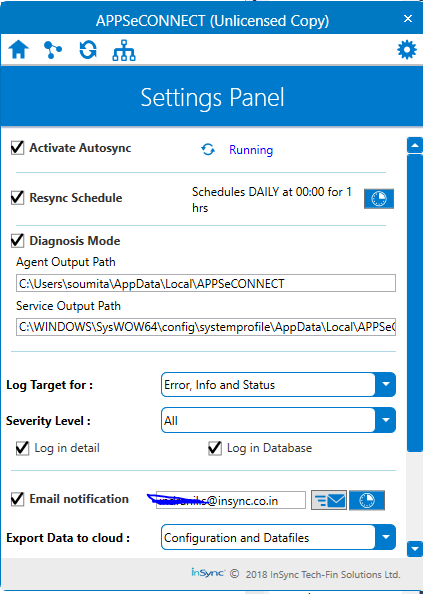
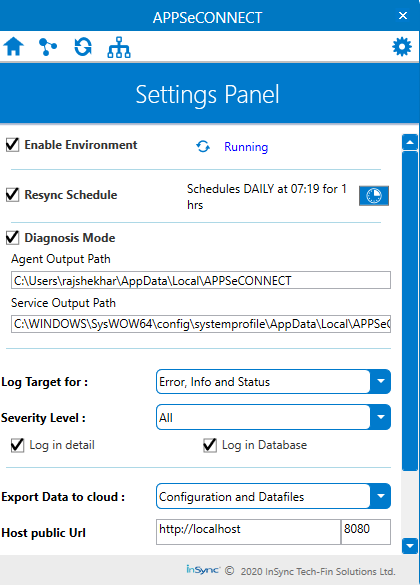
capture variable, workflow & deployment update

Changed region(s): [[0.0, 0.0, 1.0, 1.0], [0.0, 0.8923, 0.3095, 0.9231], [0.0, 0.8308, 0.3095, 0.8615]]

diff --git a/_posts/ProcessFlow Management/working-with-variable.md b/_posts/ProcessFlow Management/working-with-variable.md
@@ -27,7 +27,7 @@ Once defined, upon calling the variable, it will execute the expression associat
 ## Creating & Saving Variable
 
 Creating Variables in Processflow is easier and can be done directly by dragging the app node
-in the [designer section]().
+in the [designer section](/processflow/designer-processflow/).
 
 1. Select an application node and drag the node to the designer panel where you want to define the Capture Variable.
 
@@ -37,9 +37,9 @@ in the [designer section]().
 
 3. Enter the required details in the General Section (link will be given) of the node configuration window.
 
-4. Now Click on Properties Section and the following screen appears.
+4. Now Click on Properties Section and the screen for variable list appears. Click on the `CREATE` button.
 
-[Image]
+![var1](\staticfiles\processflow\media\var1.png)
 
 5. You need to provide the following details in the **Properties Tab**:
 
@@ -51,17 +51,17 @@ in the [designer section]().
     - **Process Flow:** This is the Global variable that can be used in any Process Flows with the organisation.
     - **Node:** This is the Local Variable and can be used only in the node where it is defined within that Process Flow.
 
-[Image]
+![var2](\staticfiles\processflow\media\var2.png)
 
 6. You will also be able to view the following toggle button in the `Create Variable` page.
 - **Is Persistant:** On Enabling this toggle button, the value after the execution will be remembered across subsequent executions.
-- **Mutable:**
-- **Is Env Specific:** You can limit the usage of the variable to Environment specific. On enabling the toggle button, you can select the variable for it to deploy while deploying the Process Flow. By default, the button would be toggled off.
 - **Is Encrypted:** Enabling this toggle will encrypt the output of variable in the database.
 
-7. Once all the necessary details are provided. Click on the SAVE button. 
+7. Once all the necessary details are provided. Click on the **SAVE** or **SAVE & CLOSE** button. 
 
-[Image]
+**Note: The field for Default Value remains disabled if the datatype is selected as  `ComplexObject` or `ComplexObjectCollection`.**
+
+![var3]()\staticfiles\processflow\media\var3.png
 
 8. On clicking the `View List` button, you can view all the created variable for the node in a list view.
 
@@ -73,7 +73,7 @@ Once you have defined and saved the Variable, you will be able to view the list 
 
 A. Click on the `VIEW LIST` button in the **Create Variable** window after defining and saving the variable.
 
-[Image]
+![var4](\staticfiles\processflow\media\var4.png)
 
 B. You will be able to view the list of variables in Properties Tab. You can view all the variables that has been created on that node.
 
@@ -97,7 +97,7 @@ A. Open the Application Node Configuration Window where you have defined the var
 
 B. Click on the properties Tab. You can view the Variable listing page.
 
-[Image]
+![var5](\staticfiles\processflow\media\var5.png)
 
 C. Click on the Ellipses icon (Three horizontal Dots) on the actions column beside the variable. You'll get two options from the drop down.
 - Edit: Enables you Edit the variable.
@@ -107,20 +107,56 @@ D. Click on the EDIT button. You can view the `Create Variable` page. Modify the
 
 **Note:** You can modify any properties associated with the variable.
 
-[Image]
-
 ## Deleting Variable
 
 A. Click on the Ellipses button beside the Variable, in the variable listing page.
 
-B. Click on the Delete button available on the drop down window. _(Will there be any confirmation message?)_
+B. Click on the Delete button available on the drop down window. 
 
-[Image]
+![var6](\staticfiles\processflow\media\var6.png)
+
+C. You'll be getting a confirmation message for the deletion process
+
+![var7](\staticfiles\processflow\media\var7.png)
 
 C. Your variable gets deleted from the list.
 
 _**Note:** You cannot delete a Variable that is currently in use for execution and will be provided with an error while doing so._
 
+## Execution Flow using Capture Variable
+
+1) [Design the Process Flow](/processflow/creating-processflow/) and Open the **Node Configuration Window** for the application implementing [GET operation](/processflow/working-with-GET/). The node configuration window opens.
+
+2) Enter the required fields in the **General Tab** of the Node Configuration Window of the application implementing GET operation. Click on the **Properties** Tab.
+
+![var8](\staticfiles\processflow\media\var8.png)
+
+3) Click on the **Create** Button in the Properties Window.
+
+4) The Variable creation page opens. Enter the required details and click on the save button.
+
+5) Navigate to the General tab and click on the **Configure Action Filter** button. Expand the Action filer node and click on the `created_at`. 
+
+6) Enter the Variable name in the `Value` field and click on the save button.
+
+![var11](\staticfiles\processflow\media\var11.png)
+
+7) You can now successfully [deploy and execute](/processflow/deploying-and-executing-processfloww/) the Process Flow.
+
+8) You can view the snapshot of the process flow.
+
+![var12]()
+
+9) Click on the `File Tab` of GET node to view all the files after the last of date.
+
+![var13]()
+
+**Note:**
+
+- Generic Function for `Lastof` has been used for fetching the all data after the LastOf value provided. After an instance the of execution, the generic function will store the `created_date` value of the last data such that on the next execution, all the data after the `LastOf date` will be fetched.
+- You need to provide `~ (tilt icon)` when providing Generic function in the `Expression` field.
+- Using of the `$` symbol to for denoting the variable usage is mandatory.
+- Variables with datatype `ComplexObect` & `ComplexObjectCollection` cannot be implemented on Action Filter.
 
 ## Capture Variables Utility:
 
@@ -128,8 +164,13 @@ This part of the document will list few scenarios that will help you understand 
 
 | Variable Name | Datatype | Expression | Default Value |Scope| Utility|
 |--------|-------------|-------------|---------|-------|-----|
-| custxp | string | `//items//item/` <br/> `cust_id` | - |  ProcessFlow or Node | Here, the variable is created with the name `$custxp` and is provided with an xpath expression. When ever the variable is called within the scope, the expression provided in the variable will be executed. |
-| countryval | string | - | ProcessFlow or Node |`"NY"` | Here, a variable is created `$countryval` that stores a static value of sting type. On implementing the variable within the scope, the variable will execute the static value when the variable is called during execution.|
-| Email | string | `//items//item/ ` <br/> `email_id` | abcd.com|ProcessFlow or Node|Here, the variable is created and is provided with both Expression and a default Value. On implementing the Variable, if the expression fails to execute its operation, the variable would replace it with the default value provided.|
-|TaxationCode| Double | - | 8.253 | ProcessFlow or Node | Here, the variable is of the datatype `Double` is provided with default value. On implementing, the variable will be executed the default double provided while defining.|
-|Frieght| Double | `//items//item` <br/> `//addresses/frieght` | 6.25 |Process flow or Node| Here, the variable frieght is declared with an expression and a default. On execution, if the expression provided doesnot executes, the default variable will be used.|
+| custxp | string | `{//items//item/` <br/> `cust_id}` | - |  ProcessFlow or Node | Here, the variable is created with the name `$custxp` and is provided with an xpath expression. When ever the variable is called within the scope, the expression provided in the variable will be executed. |
+| countryval | string | `{//items//item/` <br/> `country_id}` | ProcessFlow or Node |`"NY"` | Here, a variable is created `$countryval` that stores a static value of sting type. On the applying the variable on Action Filter of GET node, the variable will execute the expression provided and fetch only those data, that matched the value provided in the variable.|
+| Email | Bool | `{//items//item/ ` <br/> `email_id}` | True |ProcessFlow or Node|Here, the variable is created of the data type Boolean and is provided with both Expression and a default Value. On implementing the Variable on Action Filter for GET operation will fetch only those data that contains the email.|
+| IsGuest | Bool | `{//items//item/ ` <br/> `country_id}`| True| ProcessFlow or Node|Here, the variable is created of the data type Boolean and is provided with both Expression and a default Value. On implementing the Variable on Action Filter for GET operation will fetch only those data that contains the value TRUE against the attribute country id.|
+|TotalSpent| Double | `{//customers/customer` <br/> `/total-spent}`  | 55.55 | ProcessFlow or Node | Here, the variable is of the datatype `Double` is provided with default value. On implementing the variable in the action filter of Shopify operating GET, all the data whose `total-spent` value equals the variable default value will be fetched.|
+|Frieght| Double | `{//items//item` <br/> `//addresses/frieght}` | 6.25 |Process flow or Node| Here, the variable frieght is declared with an expression and a default Value. On implementing the Action filter Operating GET for Magento2, all the data with friegh value 6.25 will be fetched.|
+|LastData| DateTime | `~{gen:LastOf(//items` <br/> `/item/created_at)}~`|2020-07-08 06:31:35|Process flow or Node | Here, generic function is used as an expression and default value is provided as a Date Time  value which signifies that, the last record fetched will be upto the provided DateTime.|
+|FirstData| DateTime | `{//items/item/` <br/> `created_at}`|2020-07-06 04:45:35 |Process flow or Node|Here, the expression and value used will fetch a specific data that matches the given value, when the variable is used in the action filter.|
+|ZipCode|Number|`~{gen:FirstOf(` <br/> `//customers/` <br/> `/customer//` <br/> `addresses/zip)}~`|10001|Process flow or Node|Here, the variable is created with a generic function is provided  as an expression. The variable is implemented on the action filter of Shopify GET node that will fetch all the customers who zip code contains 10001.|
+|GrpCode|Number|`~{gen:FirstOf(` <br/> `//items//item/` <br> `group_code)}~`| 1 |Process flow or Node| Here, the variable is created with a generic function as an expression. The variable is implemented on the action filter of Magento2 GET node that well fetch all the data whose Group Code matches the value provided in the variable.|

diff --git a/_posts/Workflow-Management/2018-09-17-overview.md b/_posts/Workflow-Management/2018-09-17-overview.md
@@ -16,7 +16,18 @@ APPSeCONNECT workflow application can be considered as a strong feature that use
 
 The Workflow feature helps user to graphically organize, create and view the data flow of a process.The customers with the aid of workflow can now design integration anytime and anywhere with the help of cloud portal.
 
-Workflow enables to execute the orchestrated pattern of business activity with efficiency and optimality.
+Workflow enables to execute the orchestrated pattern of business activity with efficiency and optimality. The following are the functionalities you can perform when landing on the workflow page.
+
+|Workflow Usage|Description|
+|-----|----------|
+|[Terminologies](/workflow/Terminologies/)|Getting accustomed to the terminologies helps you knowing the system well. Her, you will get the various terminologies that is used widely while using Workflow.|
+|[Searching Workflow](/workflow/overview/#search-functions-of-workflow)| This document will enable you to search all your created workflows. Visit the Area for more details.|
+|[Delete Workflows](/workflow/overview/#deleting-workflows)| This will enable you to Delete the workflow from the list of workflows.|
+|[Editing Workflows](/workflow/overview/#editing-workflows)| This will enable you to Edit and Modify the designed workflow from the list of workflows.|
+|[Steps to choose your workflow](/workflow/steps-to-choose-your-workflow/)  |This Feature lists you all the pre-packaged workflows.|
+|[Steps to create your first workflow](/workflow/steps-to-create-your-first-workflow/) |This section will guide you through workflow creation & configuration in simple steps.|
+|[Workflow Nodes and Links](/workflow/workflow-nodes-and-links/)| This document helps you with the `Element Nodes, Actions Nodes, Process Property Nodes & Self-Loop Link.`| 
+|[Workflow FAQ's](/workflow/faqs/)| This document helps you with various common question that might pop-up on your mind while using Workflow.|
 
 ## Benefits of Using Workflow 
 
@@ -27,53 +38,7 @@ Workflow enables to execute the orchestrated pattern of business activity with e
 5. Modifying Step Order
 6. Real time Reports
 
-## Elements/Nodes of Workflow
-
-Given below is the list of elements you will use in workflow. Under Elements, all the elements such as GET, PROCESS, POST, etc will be listed  
-![Element Node](/staticfiles/workflow-management/media/ElementNode.png)
-
-Elements of workflow:
-
-* [Get](/workflow/working-with-get/)
-* [Process](/workflow/working-with-process/)
-* [Post](/workflow/working-with-post/)
-* [Halt-Resume](/workflow/working-with-halt-resume/)
-* [Delay](/workflow/working-with-delay/)
-
-## Actions of Workflow
-
-Actions are used in Workflow to perform some operation with the data apart, from transferring them from source to destination. These Actions can include sending an email or raising an automated support ticket if Workflow encounters any execution failure etc. To achieve this in our admin Workflow panel you would see a separate section named Action.
-Currently APPSeCONNECT supports the following actions:
-
-
-* [Email](/workflow/generating-notification-emails/)
-* [Ticket](/workflow/generating-notification-support-ticket/)
-* [Webhook](/workflow/generating-notification-webhooks/)
-* [Storage](/workflow/generating-storage-action/)
-
-
-
-**Protip** These Actions can also have RULE as Parent and no child from action node will be allowed as these Actions are leaf nodes 
-{: .notice--info}
-
-## Process Property of Workflow
-
-* [Split](/workflow/working-with-splitter/)
-* [Merger](/workflow/working-with-merger/)
-* [Filter](/workflow/working-with-filter/)
-* [Sequencer](/workflow/working-with-sequencer/)
-* [Touchpoint]()
-
-## Templates of Workflow
-
-* General Touchpoint
-* Post Touchpoint
-* Get Merge Touchpoint
-* Push Merge Touchpoint
-* Get Splitted Touchpoint
-* Push Splitted Touchpoint
-
-### Working with Workflow in APPSeCONNECT
+## Working with Workflow in APPSeCONNECT
 
  APPSeCONNECT Workflows are the diagrammatic representations of a business process.  
 
@@ -104,7 +69,7 @@ Currently APPSeCONNECT supports the following actions:
  {: .notice--info}
 
  
-### Search functions of Workflow
+## Search functions of Workflow
 
 * Active - indicates that you want to search only for the active Workflows.
 * Inactive - indicates that you want to search only for the active Workflows.
@@ -115,6 +80,16 @@ Currently APPSeCONNECT supports the following actions:
 {: .notice--info}
 
 If you type nothing and click on Search, all the Workflows listed under your project will show on the page.
+
+## Deleting Workflows: 
+
+* You will be able to view a Trash icon on every Workflows on your Workflow listing Page.
+* Clicking on the Trash icon will confirm you with the Delete Operation of the Workflow.
+* Clicking on Yes will successfully delete the Workflow.
+
+## Editing Workflows: 
+
+Clicking on the EDIT button will navigate you to the [designer page](/workflow/steps-to-create-your-first-workflow/), that will enable you to edit and modify changes in the designed workflow. You can perform any changes and modifications in designer page while editing the Workflow.
 
 The above points explains the basic Workflow management in the portal.
 

diff --git a/_posts/Workflow-Management/Quickstart/2018-09-18-quickstart-guides-to-workflow-management.md b/_posts/Workflow-Management/Quickstart/2018-09-18-quickstart-guides-to-workflow-management.md
@@ -23,11 +23,13 @@ To know in details, go through the given sections:
 |[Steps to choose your workflow](/workflow/steps-to-choose-your-workflow/)  |This Feature lists you all the pre-packaged workflows.|
 |[Steps to create your first workflow](/workflow/steps-to-create-your-first-workflow/) |This section will guide you through workflow creation & configuration in simple steps.|
 |[Attribute Mapping of workflow](/workflow/attribute-mapping-workflow/)|While Working with Workflow `Attribute Mapping` needs to be implemented before integrating. |
-|[Resuming Workflows](/resuming%20workflows/resuming-workflows/)    |By Resuming Workflow wherein, when a workflow execution gets stopped midway,restart the workflowing is not required instead the workflow would resume from the node it stopped.|
+|[Workflow Nodes and Links](/workflow/workflow-nodes-and-links/)| This document will helps you with the `Element Nodes, Actions Nodes, Process Property Nodes & Self-Loop Link.`| 
 |[Scheduling, Deploying, Publishing & Executing workflows](/workflow/deploying-and-executing/)|With APPSeCONNECT Workflow, you can deploy, execute and maintain business integrations|    
-|[Data-view process of workflow snapshot](/workflow/list-of-snapshot/)   |The snapshot gives a detailed overview of the data that is being transferred through workflow giving you a complete picture of the data transformed through the process. |
-|[Debugging a workflow](/workflow/debugging-a-workflow/)   |This helps you to investigate the workflow by executing one or more nodes directly within the workflow and inspect the data being fetched or passed to the actions.|
-
+|[Data-view process of workflow snapshot](/workflow/list-of-snapshot/)|The snapshot gives a detailed overview of the data that is being transferred through workflow giving you a complete picture of the data transformed through the process. |
+|[Workflow Usecases](/workflow/common-use-cases-on-workflow-management/)| This will help you with business specific scenarios for implementing Workflows.|
+|[Resuming Workflows](/resuming%20workflows/resuming-workflows/)|By Resuming Workflow wherein, when a workflow execution gets stopped midway,restart the workflowing is not required instead the workflow would resume from the node it stopped.|
+|[Debugging a workflow](/workflow/debugging-a-workflow/)|This helps you to investigate the workflow by executing one or more nodes directly within the workflow and inspect the data being fetched or passed to the actions.|
+|[Workflow Troubleshooting](/workflow/Troubleshooting/)| This section of the document helps you with troubleshooting of various common scenarion that you can come across.|
    
   
     

diff --git a/_posts/Deployment/2018-12-10- settings.md b/_posts/Deployment/2018-12-10- settings.md
@@ -24,16 +24,18 @@ Here you will get detailed description on the use of settings panel to edit some
 
 ![SettingPanel](/staticfiles/deployment/media/Setting/SettingPanel.png)
 
-The Agent Setting Panel is divided into four components- `Activate Autosync, Resync Schedule, Diagnosis Mode, Log Target For, Severity level, Email Notification,
+The Agent Setting Panel is divided into four components- `Enable Environment, Resync Schedule, Diagnosis Mode, Log Target For, Severity level,
 Export Data to Cloud, Host Public URL`.
 
-## Activate Autosync
+## Enable Environment
 
-Activate Autosync enables to Activate / Deactivate background service installed on-premise. 
+Enabling the checkbox for **Enable Environment** enables to Activates background service installed on-premise. 
 
-The APPSeCONNECT agent installs a separate service to do the actual sync. The process is installed on your system to ensure that the sync remains active even though you log in or accidentally close our agent application. Settings have an option to **"Activate / Deactivate"** the autosync service. When the checkbox "Active Autosync" is unchecked, the respective service will be turned off. We also give you option to kill the service from UI if the service cannot be stopped normally. 
+The APPSeCONNECT agent installs a separate service to do the actual sync. The process is installed on your system to ensure that the sync remains active even though you log in or accidentally close our agent application. Settings have an option to **"Activate / Deactivate"** the environment service. When the checkbox "Enable Environment" is unchecked, the respective service will be turned off. We also give you option to kill the service from UI if the service cannot be stopped normally. 
 
-The Autosync interval defines the interval between two processes. 
+Enable Environment defines the interval between two processes. 
+
+**Note: Deactivating the checkbox will, disconnect the Agent with the Portal. You cannot deploy any changes from [Process Flow](/processflow/deploying-and-executing-processfloww/) if your Enabled Environment checbox is disabled.
 
 **Protip:** It is highly recommended not to stop a service by any means unless you want to restart your server. 
 The Autosync service is capable of restarting itself if it crashes by any means.

diff --git a/_posts/Deployment/2018-11-20- overview.md b/_posts/Deployment/2018-11-20- overview.md
@@ -21,10 +21,13 @@ and create new deployments. A deployment consists of a some package that has bee
 
 Steps to deployment of Agent is discussed in the subsequent sections of the user guide.
 
-1. [System Requirement for Agent Installation, URL & Port Info](/deployment/gettingstarted-with-deployment/#system-requirement-for-agent-installation)
-2. [Deployment Configuration of APPSeCONNECT Agent](/deployment/Deployment-Configuration/)
-3. [Agent Blocking Unblocking](/deployment/Agent-Blocking-and-Unblocking/)
-4. [Settings in Agent](/deployment/settings/)
-5. [Transactional Stores](/deployment/Overview-of-Plugin/)
-6. [Updating & Migrating an Agent](/deployment/upgradation-and-migration/)
+|Sections|Details|
+|---|---|
+|[System Requirement for Agent Installation, URL & Port Info](/deployment/gettingstarted-with-deployment/#system-requirement-for-agent-installation)| Before the agent setup and installation, you need to know the requirements. This document will list with system requirements for Agent Installation and URL & Port Infos.|
+|[Installing & setting up of Agents ](/deployment/Deployment-Configuration/)| This section of the document will help you with the installations of both the Cloud and On-Premise Agent.| |
+|[Working with Environments](/deployment/Environment-Management/)| This document will help with the `Environment details page` of portal. Once you have installed your agent, you can view this image in the enviroment section of the portal.| 
+|[Detaching and Attaching of Agents](/deployment/Environment-Management/#detaching-and-attaching-environment)| This document will help you with the detaching and attaching events for your Agents in the Environments page.|
+|[Settings in Agent](/deployment/settings/)|This document helps you with the settings page of the On-Premise Agent.|
+|[Transactional Stores](/deployment/Overview-of-Plugin/)|This document will help you with the Plugins of APPSeCONNECT.|
+|[Updating & Migrating an Agent](/deployment/upgradation-and-migration/)| This document will help you with the Upgradation and Migration of the On-Premise Agents.  |
 

diff --git a/_posts/Workflow-Management/Nodes-and-links/2018-09-20-workflow-nodes-and-links.md b/_posts/Workflow-Management/Nodes-and-links/2018-09-20-workflow-nodes-and-links.md
@@ -17,6 +17,15 @@ updates business data to all the applications that needs to be affected. Workflo
 each and every functions and business process, take decisions, invoke notifications etc. In this article, we cover how to use workflow
 in efficient way to update business data from one application to another. 
 
+## Templates of Workflow
+
+* General Touchpoint - Dragging this, migrates the general touchpoint of a connection with all the three nodes GET, Process & POST.
+* Post Touchpoint - Dragging a POST touchpoint, provides the user with a selection of the connection template for which the will get a POST operated touching point having the nodes, `PROCESS & POST`.
+* Get Merge Touchpoint - Dragging a Get-Merge touchpoint, provides the user with the [Property configuration of Merger Node](/workflow/working-with-merger/) followed by the selection of the connection template for which the template will be having the `GET, MERGER, Process, POST` nodes.
+* Push Merge Touchpoint - Dragging a Push-Merge touchpoint, provides the user with the [Property configuration of Merger Node](/workflow/working-with-merger/) followed by the selection of the connection template for which the template will be having the `GET, Process, Merger, POST` nodes.
+* Get Splitted Touchpoint - Dragging a Get-splitted touchpoint, provides the user with the [Property configuration of Splitter Node](/workflow/working-with-splitter/) followed by the selection of the connection template for which the template will be having the `GET, Splitter, Process, POST` nodes.
+* Push Splitted Touchpoint - Dragging a Push-Splitted touchpoint, provides the user with the [Property configuration of Splitter Node](/workflow/working-with-splitter/) followed by the selection of the connection template for which the template will be having the `GET, Process, Splitter, POST` nodes.
+
 ## Workflow major capabilities
 
 Workflow in APPSeCONNECT is having a number of capabilities. Let us check what it can do : 

diff --git a/_posts/API-Management/Quickstart/2018-09-17-steps-to-create-proxy-endpoint.md b/_posts/API-Management/Quickstart/2018-09-17-steps-to-create-proxy-endpoint.md
@@ -58,9 +58,11 @@ not specify the version element in the API, you will face lot of challenges in f
 4. Once all the data is provided on the screen, move to the next screen. The next screen lets the user 
 to specify policies which will be executed before the execution of Backend Action.
 ![Inbound Policy Example](/staticfiles/api-management/media/inbound-policy-example.png)  
-In the figure above, you can see, you can add more and more policies from the screen to be applied to an API. Each  
-of the [policies](/api-management/policies/) applied here needs to be cofigured with specific data. Once all the policies are configured correctly,
-you can continue the wizard. For Policy Configuration, Click [here](/api-management/policies/)    
+
+**Protip** In the figure above, you can see, you can add more and more policies from the screen to be applied to an API. Each of the [policies](/api-management/policies/) applied here needs to be cofigured with specific data. Once all the policies are configured correctly,
+you can continue the wizard. For Policy Configuration, Click [here](/api-management/policies/).
+{: .notice--info}
+
 5. The next screen is where you specify the backend. This section is very important because this section
 provides the actual data source for that particular API.   
 ![Api Backend Configuration](/staticfiles/api-management/media/api-backend-configuration.png)    

diff --git a/_posts/Workflow-Management/Nodes-and-links/Actions/2018-09-25-generating-actions.md b/_posts/Workflow-Management/Nodes-and-links/Actions/2018-09-25-generating-actions.md
@@ -22,7 +22,7 @@ APPSeCONNECT, there is a number of actions that you can perform while executing 
 
 |Action Name|Description|
 |---|--------|
-|[Email Action]|Email action is used to send email notification from inside the workflow such that an email with proper data could be send to the intended users whenever it reaches the action.|
+|Email Action|Email action is used to send email notification from inside the workflow such that an email with proper data could be send to the intended users whenever it reaches the action.|
 |[Support Ticket Action](/workflow/generating-notification-support-ticket/)| A support ticket could be raised to APPSeCONNECT support team to notify them on a problem that occurred directly from within the workflow. A support ticket will be taken care of by APPSeCONNECT support team.|
 |[Storage Action](/workflow/generating-storage-action/)|In certain scenario, you want to store or archive some data for later inspection, the storage action is used to store such data from the workflow for future inspection.|
 |[Webhook Action](/workflow/generating-notification-webhooks/)|Webhooks are special callback which your workflow can generate if a workflow encounters a webhook action. A webhook will require a callback url where it will post certain data which is being configured through workflow.|

diff --git a/_posts/ProcessFlow Management/2020-03-21-Lookup-repository-masterdata.md b/_posts/ProcessFlow Management/2020-03-21-Lookup-repository-masterdata.md
@@ -61,8 +61,8 @@ Prerequisites for Creating Lookup Reference Tables
 following option.  
 a.	Edit: You can Rename the collection by clicking Edit Button.  
 b.	Delete:You can delete the whole Repository Collection including the Tables inside it, by clicking on delete button.   
-c.	[Import](/processflow/export-and-import-lookup/#steps-to-import-lookups-from-repository-collection): You can import an excel file for creating reference tables from your local system.  
-d.	[Export](/processflow/export-and-import-lookup/#steps-to-export-lookups-from-repository-collection): You can export the created lookups to your local system.    
+c.	**[Import](/processflow/export-and-import-lookup/#steps-to-import-lookups-from-repository-collection): You can import an excel file for creating reference tables from your local system.**  
+d.	**[Export](/processflow/export-and-import-lookup/#steps-to-export-lookups-from-repository-collection): You can export the created lookups to your local system.**    
 e.	New Table: You can create a new table under the selected Repository Collection by clicking on new table.  
 f.  Clear All: You can clear all the data of the Repository Collection by clicking on this option. You will get a warning ,essage,
 click `Yes` to proceed, else click `No` to cancel.    

diff --git a/_posts/Deployment/Transactional Stores/2018-11-20-Overview of Plugin.md b/_posts/Deployment/Transactional Stores/2018-11-20-Overview of Plugin.md
@@ -19,6 +19,14 @@ Currently, AEC Plugins are used in databases like OLE DB,
 SAP HANA and MYSQL which enables the database to communicate with
 APPSeCONNECT. 
 
+Listed are the following Plugins that are used in APPSeCONNECT.
+
+|Plugins|Details|
+|---|---|
+|[MySQL](/deployment/MYSQL-plugin-installation/)|This Document provides you the detailed knowhow on the installation process of MySQL Database ODBC Connector in your System.|
+|[HANA](/deployment/hana-plugin-installation/)|This section of the document provides you the detailed instructions on the process of installing the SAP HANA Database Plugin in your System and how to use plugin in the adapter.|
+|[OLE](/deployment/OLE-db-plugin-installation/)| This section of the document provides you with the detailed instructions for using OLEDB Plugin.|
+
 **Protip** AEC now provides prepackaged plugin with Agent. You can choose and Install the desired plugin.
 {: .notice--info}
 
